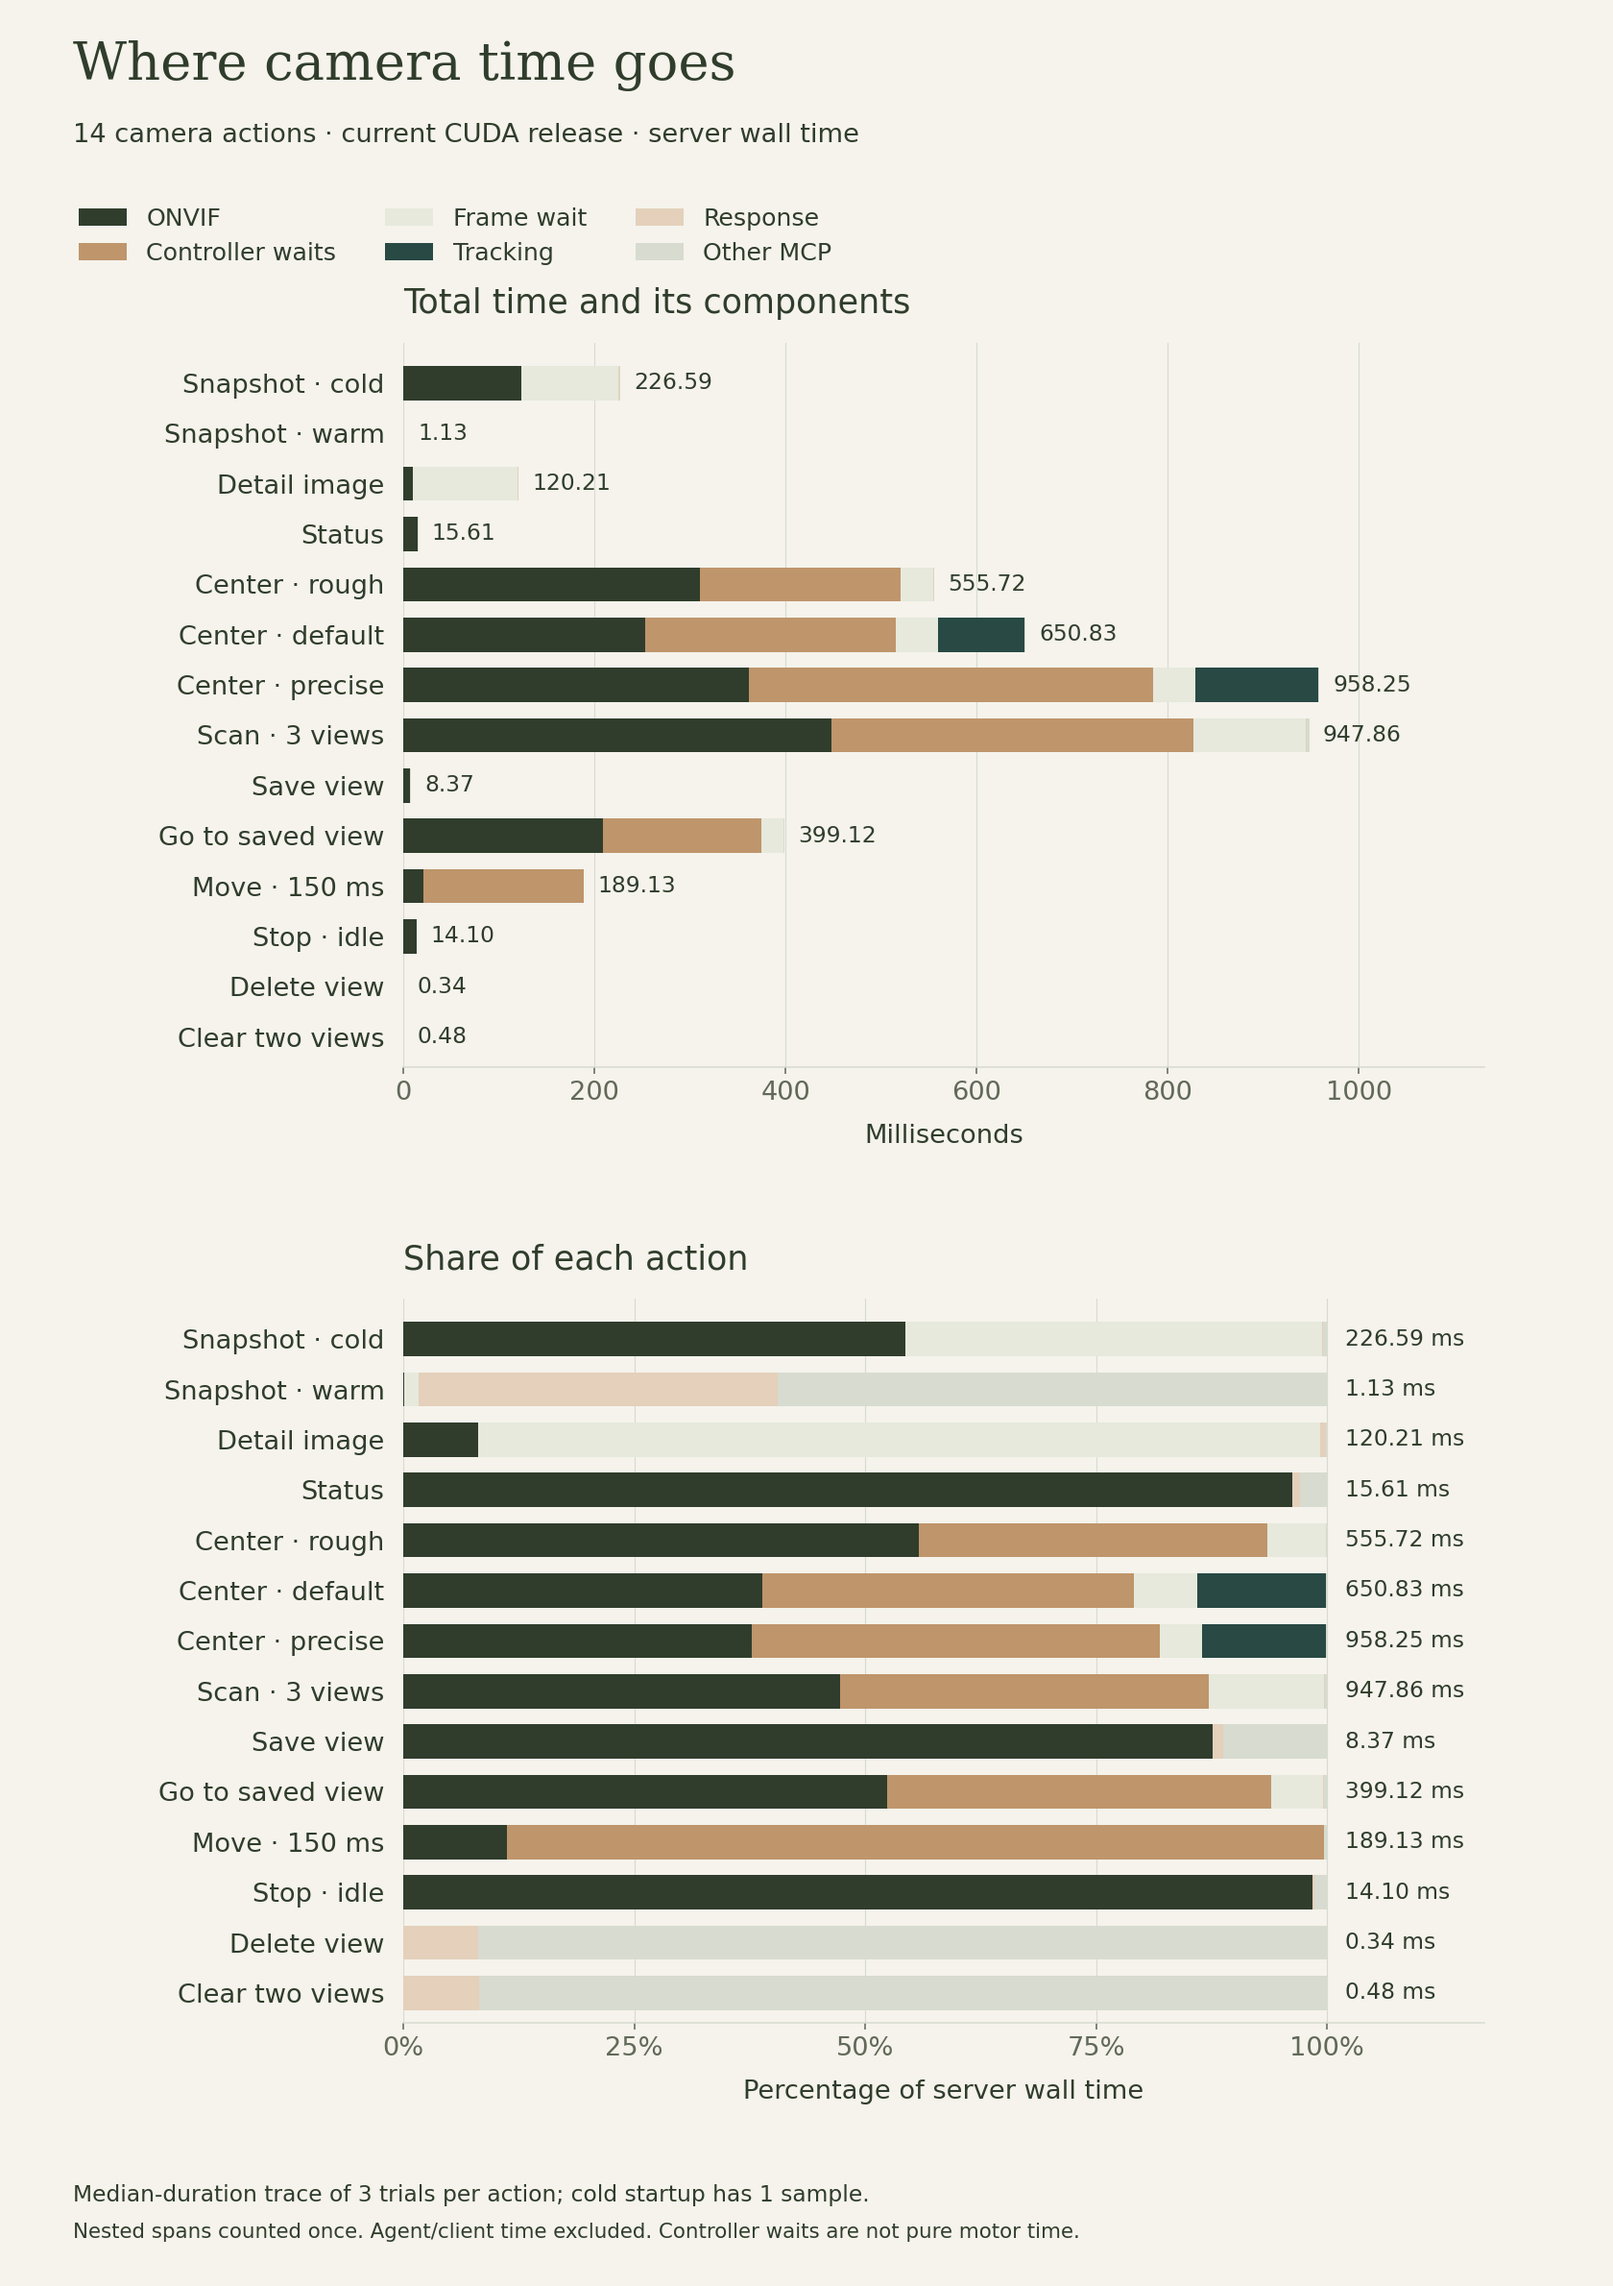
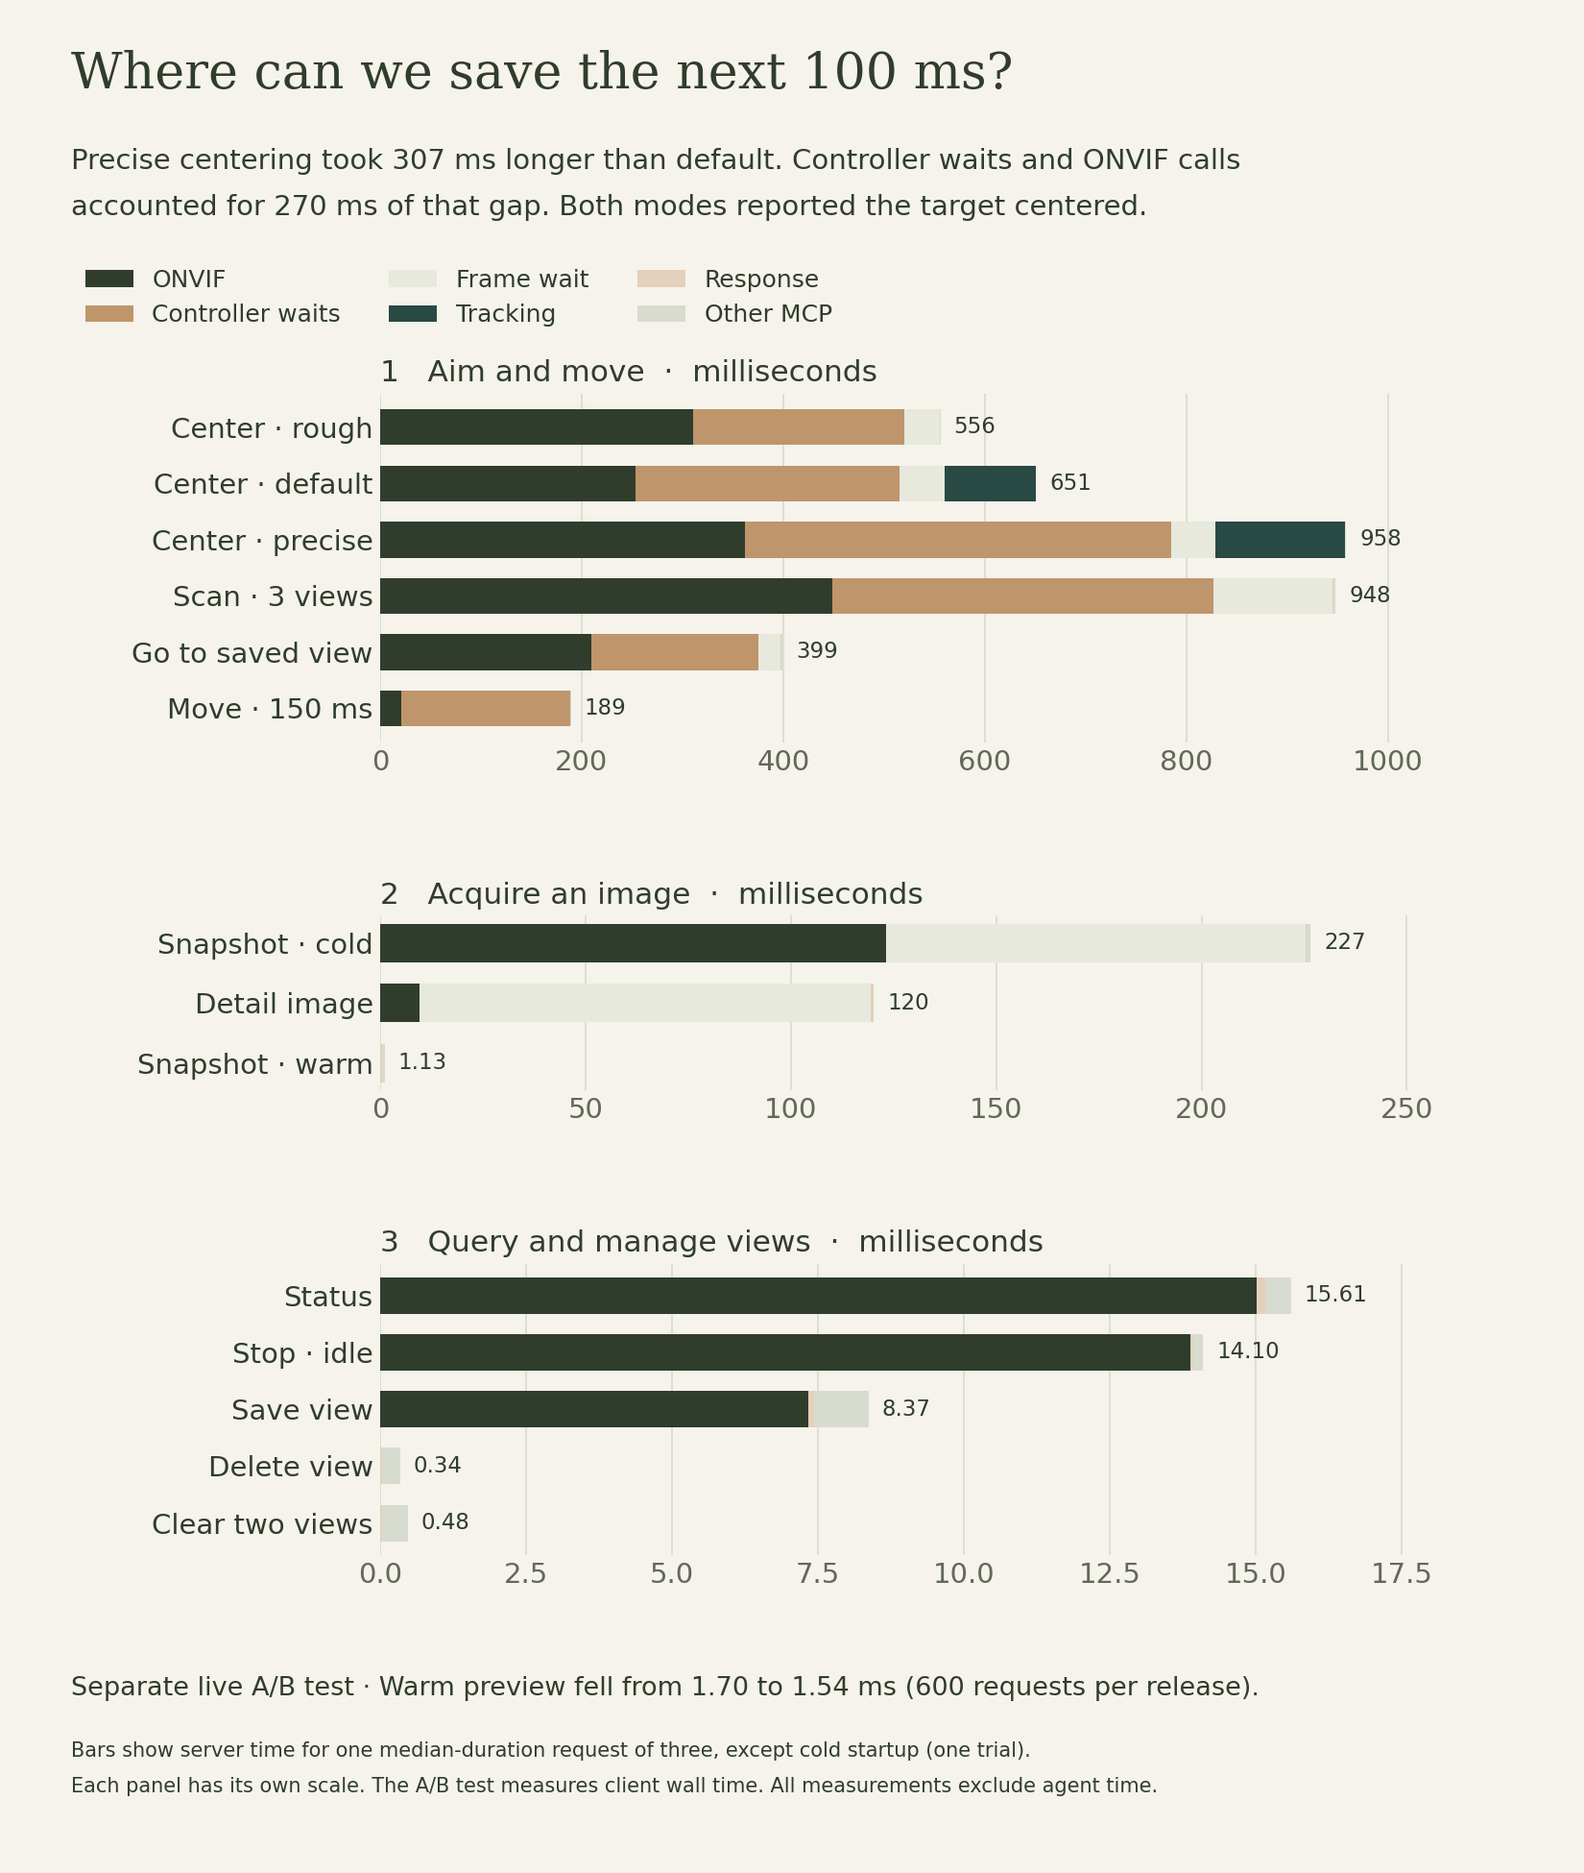
Group action timings by decision and quantify the cost of precise aiming

diff --git a/benchmarks/mcp-optimization/render_action_png.py b/benchmarks/mcp-optimization/render_action_png.py
@@ -19,36 +19,51 @@ plt.rcParams.update({'font.family':'DejaVu Sans','font.size':14,'text.color':bra
     'axes.labelcolor':brand['ink'],'xtick.color':brand['muted'],'ytick.color':brand['ink'],
     'figure.facecolor':brand['paper'],'axes.facecolor':brand['paper'],
     'savefig.facecolor':brand['paper']})
-fig,axes=plt.subplots(2,1,figsize=(12,17),dpi=140)
-fig.subplots_adjust(left=.25,right=.92,top=.85,bottom=.115,hspace=.32)
-fig.text(.045,.965,'Where camera time goes',fontfamily='DejaVu Serif',fontsize=28)
-fig.text(.045,.938,'14 camera actions · current CUDA release · server wall time',fontsize=14)
-ys=np.arange(len(data))
-for index,(ax,normalized) in enumerate(zip(axes,[False,True])):
-    left=np.zeros(len(data))
-    for category,color in zip(categories,colors):
-        values=np.array([r['breakdown_ms'][category] for r in data])
-        if normalized:values=values/totals*100
-        ax.barh(ys,values,left=left,color=color,height=.68,label=category)
-        left+=values
-    ax.set_yticks(ys,labels);ax.invert_yaxis()
-    ax.set_ylim(len(data)-.4,-.8)
-    ax.spines[['top','right','left']].set_visible(False)
-    ax.spines['bottom'].set_color(brand['border'])
-    ax.tick_params(axis='y',length=0,pad=10)
+summary = json.loads((HERE / 'summary.json').read_text())
+by_name = {row['action']: row for row in data}
+groups = [
+    ('1   Aim and move', [4, 5, 6, 7, 9, 10], 1100),
+    ('2   Acquire an image', [0, 2, 1], 270),
+    ('3   Query and manage views', [3, 11, 8, 12, 13], 19),
+]
+assert sorted(i for _, indices, _ in groups for i in indices) == list(range(len(data)))
+fig, axes = plt.subplots(3, 1, figsize=(11, 13), dpi=150,
+                         gridspec_kw={'height_ratios': [6, 3, 5]})
+fig.subplots_adjust(left=.24, right=.94, top=.79, bottom=.17, hspace=.64)
+fig.text(.045, .953, 'Where can we save the next 100 ms?', fontsize=25, family='DejaVu Serif')
+default = by_name['Center · default']
+precise = by_name['Center · precise']
+delta = precise['server_ms'] - default['server_ms']
+move_delta = sum(precise['breakdown_ms'][key] - default['breakdown_ms'][key]
+                 for key in ['ONVIF', 'Controller waits'])
+fig.text(.045, .91, f'Precise centering took {delta:.0f} ms longer than default. Controller waits and ONVIF calls')
+fig.text(.045, .885, f'accounted for {move_delta:.0f} ms of that gap. Both modes reported the target centered.')
+for ax, (heading, indices, limit) in zip(axes, groups):
+    rows = [data[i] for i in indices]
+    y = np.arange(len(rows))
+    left = np.zeros(len(rows))
+    for category, color in zip(categories, colors):
+        widths = np.array([r['breakdown_ms'][category] for r in rows])
+        ax.barh(y, widths, left=left, height=.64, color=color, label=category)
+        left += widths
+    for pos, total in zip(y, left):
+        label = f'{total:.0f}' if total >= 100 else f'{total:.2f}'
+        ax.text(total + limit * .012, pos, label, va='center', fontsize=11)
+    ax.set_yticks(y, [labels[i] for i in indices])
+    ax.invert_yaxis()
+    ax.set_xlim(0, limit)
+    ax.set_title(heading + '  ·  milliseconds', loc='left', fontsize=15)
+    ax.spines[:].set_visible(False)
+    ax.tick_params(length=0)
+    ax.grid(axis='x', color=brand['border'])
     ax.set_axisbelow(True)
-    ax.grid(axis='x',color=brand['border'],linewidth=.6)
-    ax.set_title('Share of each action' if normalized else 'Total time and its components',loc='left',fontsize=18,pad=16)
-    if normalized:
-        ax.set_xlim(0,117);ax.set_xticks([0,25,50,75,100],['0%','25%','50%','75%','100%'])
-        ax.set_xlabel('Percentage of server wall time',labelpad=10)
-        for y,total in zip(ys,totals):ax.text(102,y,f'{total:,.2f} ms',va='center',fontsize=12)
-    else:
-        ax.set_xlim(0,max(totals)*1.18);ax.set_xlabel('Milliseconds',labelpad=10)
-        for y,total in zip(ys,totals):ax.text(total+max(totals)*.015,y,f'{total:,.2f}',va='center',fontsize=12)
-handles,legend_labels=axes[0].get_legend_handles_labels()
-fig.legend(handles,legend_labels,loc='upper left',bbox_to_anchor=(.035,.919),ncol=3,frameon=False,fontsize=13)
-fig.text(.045,.037,'Median-duration trace of 3 trials per action; cold startup has 1 sample.',fontsize=12)
-fig.text(.045,.021,'Nested spans counted once. Agent/client time excluded. Controller waits are not pure motor time.',fontsize=11)
-fig.savefig(HERE/'camera-action-costs.png')
+handles, _ = axes[0].get_legend_handles_labels()
+fig.legend(handles, categories, loc='upper left', bbox_to_anchor=(.04,.868),
+           ncol=3, frameon=False, fontsize=12)
+baseline = summary['variants']['baseline']['median_ms']
+final = summary['variants']['candidate']['median_ms']
+fig.text(.045,.095, f'Separate live A/B test · Warm preview fell from {baseline:.2f} to {final:.2f} ms (600 requests per release).', fontsize=13)
+fig.text(.045,.062, 'Bars show server time for one median-duration request of three, except cold startup (one trial).', fontsize=10)
+fig.text(.045,.043, 'Each panel has its own scale. The A/B test measures client wall time. All measurements exclude agent time.', fontsize=10)
+fig.savefig(HERE / 'camera-action-costs.png')
 plt.close(fig)
